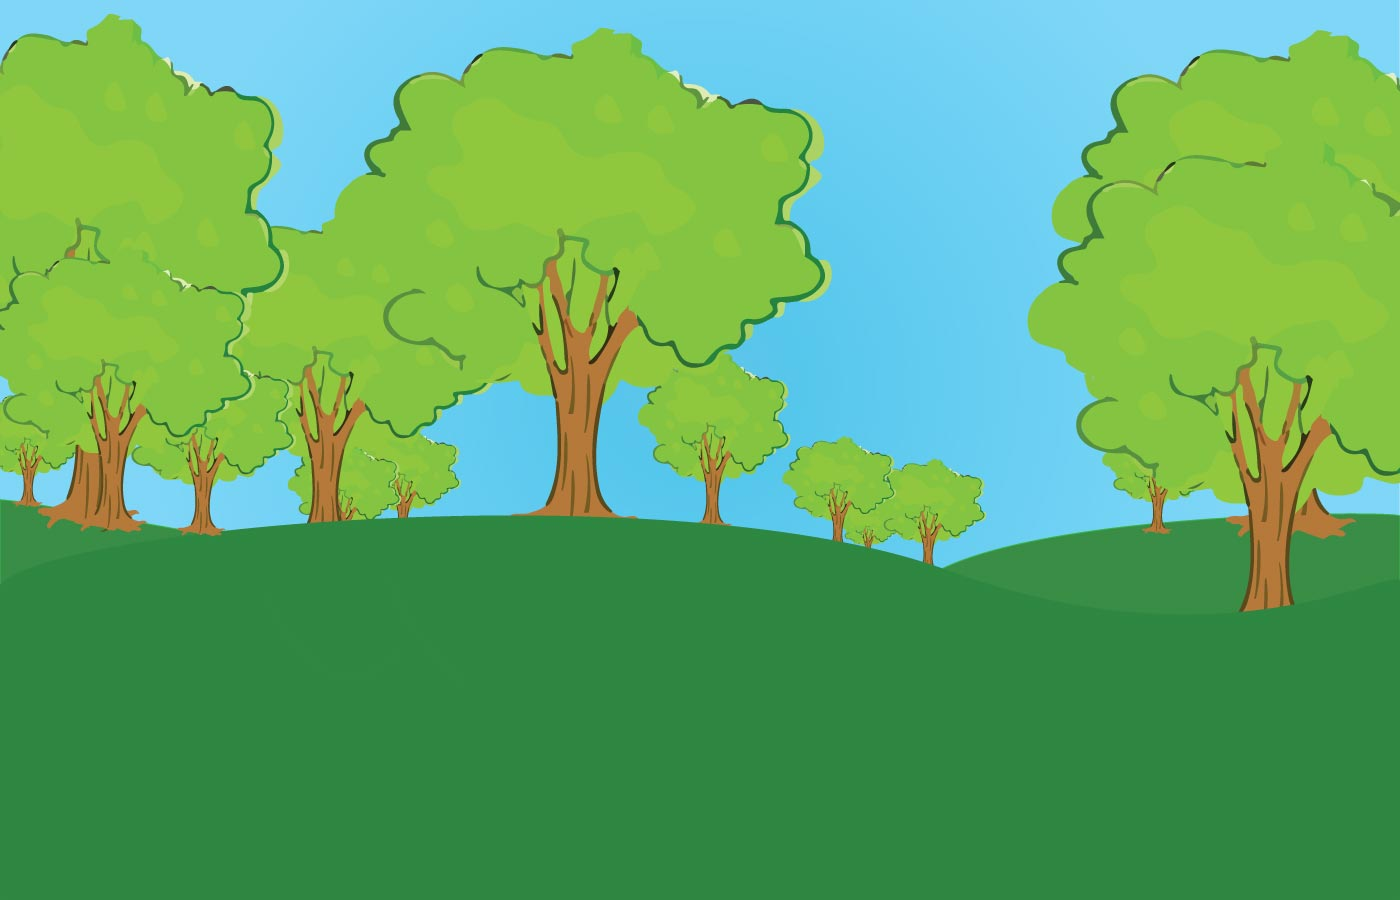
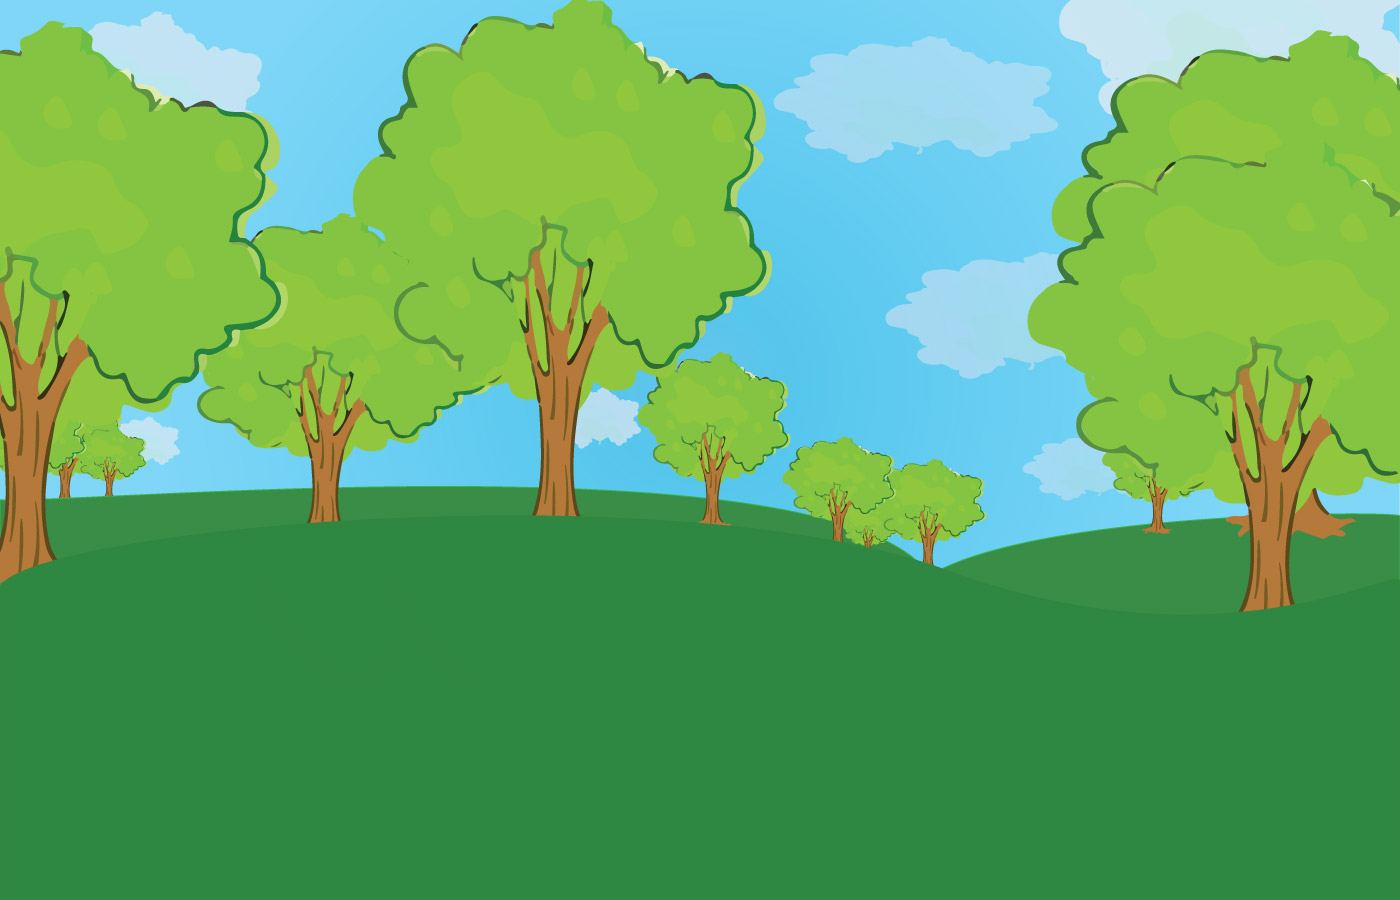
Animation and Environment Upgrade
Dennis adjusted the script to execute movement patterns at more random
times to simulate more randomness to the page. I completed the left and
right movements on the sprite sheet and uploaded a more open and
friendly looking background to provide a better environment.

diff --git a/js/script.js b/js/script.js
@@ -4,15 +4,16 @@
  * @version 1.0, November 2015
  *
  * @param id    string - id of the animal
- * @param xpos  int - horizontal starting position
- * @param ypos  int - vertical starting position
+ * @param aClass string - class of the animal
+ * @param xPos  int - horizontal starting position
+ * @param yPos  int - vertical starting position
  * @param upNum int - number used to track squirrel's position relative to the top of the grid
  * @param downNum int - number used to track squirrel's position relative to the bottom of the grid
  * @param leftNum int - number used to track squirrel's position relative to the left side of the grid
  * @param rightNum int - number used to track squirrel's position relative to the right side of the grid
  */
 
-function Squirrel(id, xPos, yPos, upNum, downNum, leftNum, rightNum){
+function Squirrel(id, aClass,xPos, yPos, upNum, downNum, leftNum, rightNum){
     //properties to let each animal store its own x/y position
     this.x = xPos;
     this.y = yPos;
@@ -38,7 +39,7 @@ function Squirrel(id, xPos, yPos, upNum, downNum, leftNum, rightNum){
     */
     this.create = function(){
         this.animal_on_page = document.createElement("div");
-        this.animal_on_page.className = "squirrel";
+        this.animal_on_page.className = aClass;
         this.animal_on_page.id = this.id;
         this.animal_on_page.style.left = this.x + "px";
         this.animal_on_page.style.top = this.y + "px";
@@ -47,7 +48,7 @@ function Squirrel(id, xPos, yPos, upNum, downNum, leftNum, rightNum){
         thisObject = this;
         thisObject.moveInt =setInterval(function(){
             thisObject.squirrelBehavior(); 
-        },1000);
+        },(Math.floor((Math.random()*3000)+2000)));
     }//end function create();
 	
     /**

diff --git a/index.html b/index.html
@@ -13,9 +13,9 @@
     <body class="clearfix">
         <div id="forest">
             <script>
-                var squirrel1 = new Squirrel("squirrel1",250,500,0,0,0,0);
+                var squirrel1 = new Squirrel("squirrel1"," squirrel",250,500,0,0,0,0);
                 squirrel1.create();
-                var squirrel2 = new Squirrel("squirrel2",500,500,0,0,0,0);
+                var squirrel2 = new Squirrel("squirrel2","squirrel",500,500,0,0,0,0);
                 squirrel2.create();
             </script>
         </div>

diff --git a/css/style.css b/css/style.css
@@ -3,7 +3,7 @@ html{
     min-width: 1400px;
     max-width: 1400px;
     background-image: url(../img/Tickle-Forest_Landscape.jpg);
-    background-repeat: no-repeat;
+    background-repeat: repeat;
     width:100%;
 }
 /*
